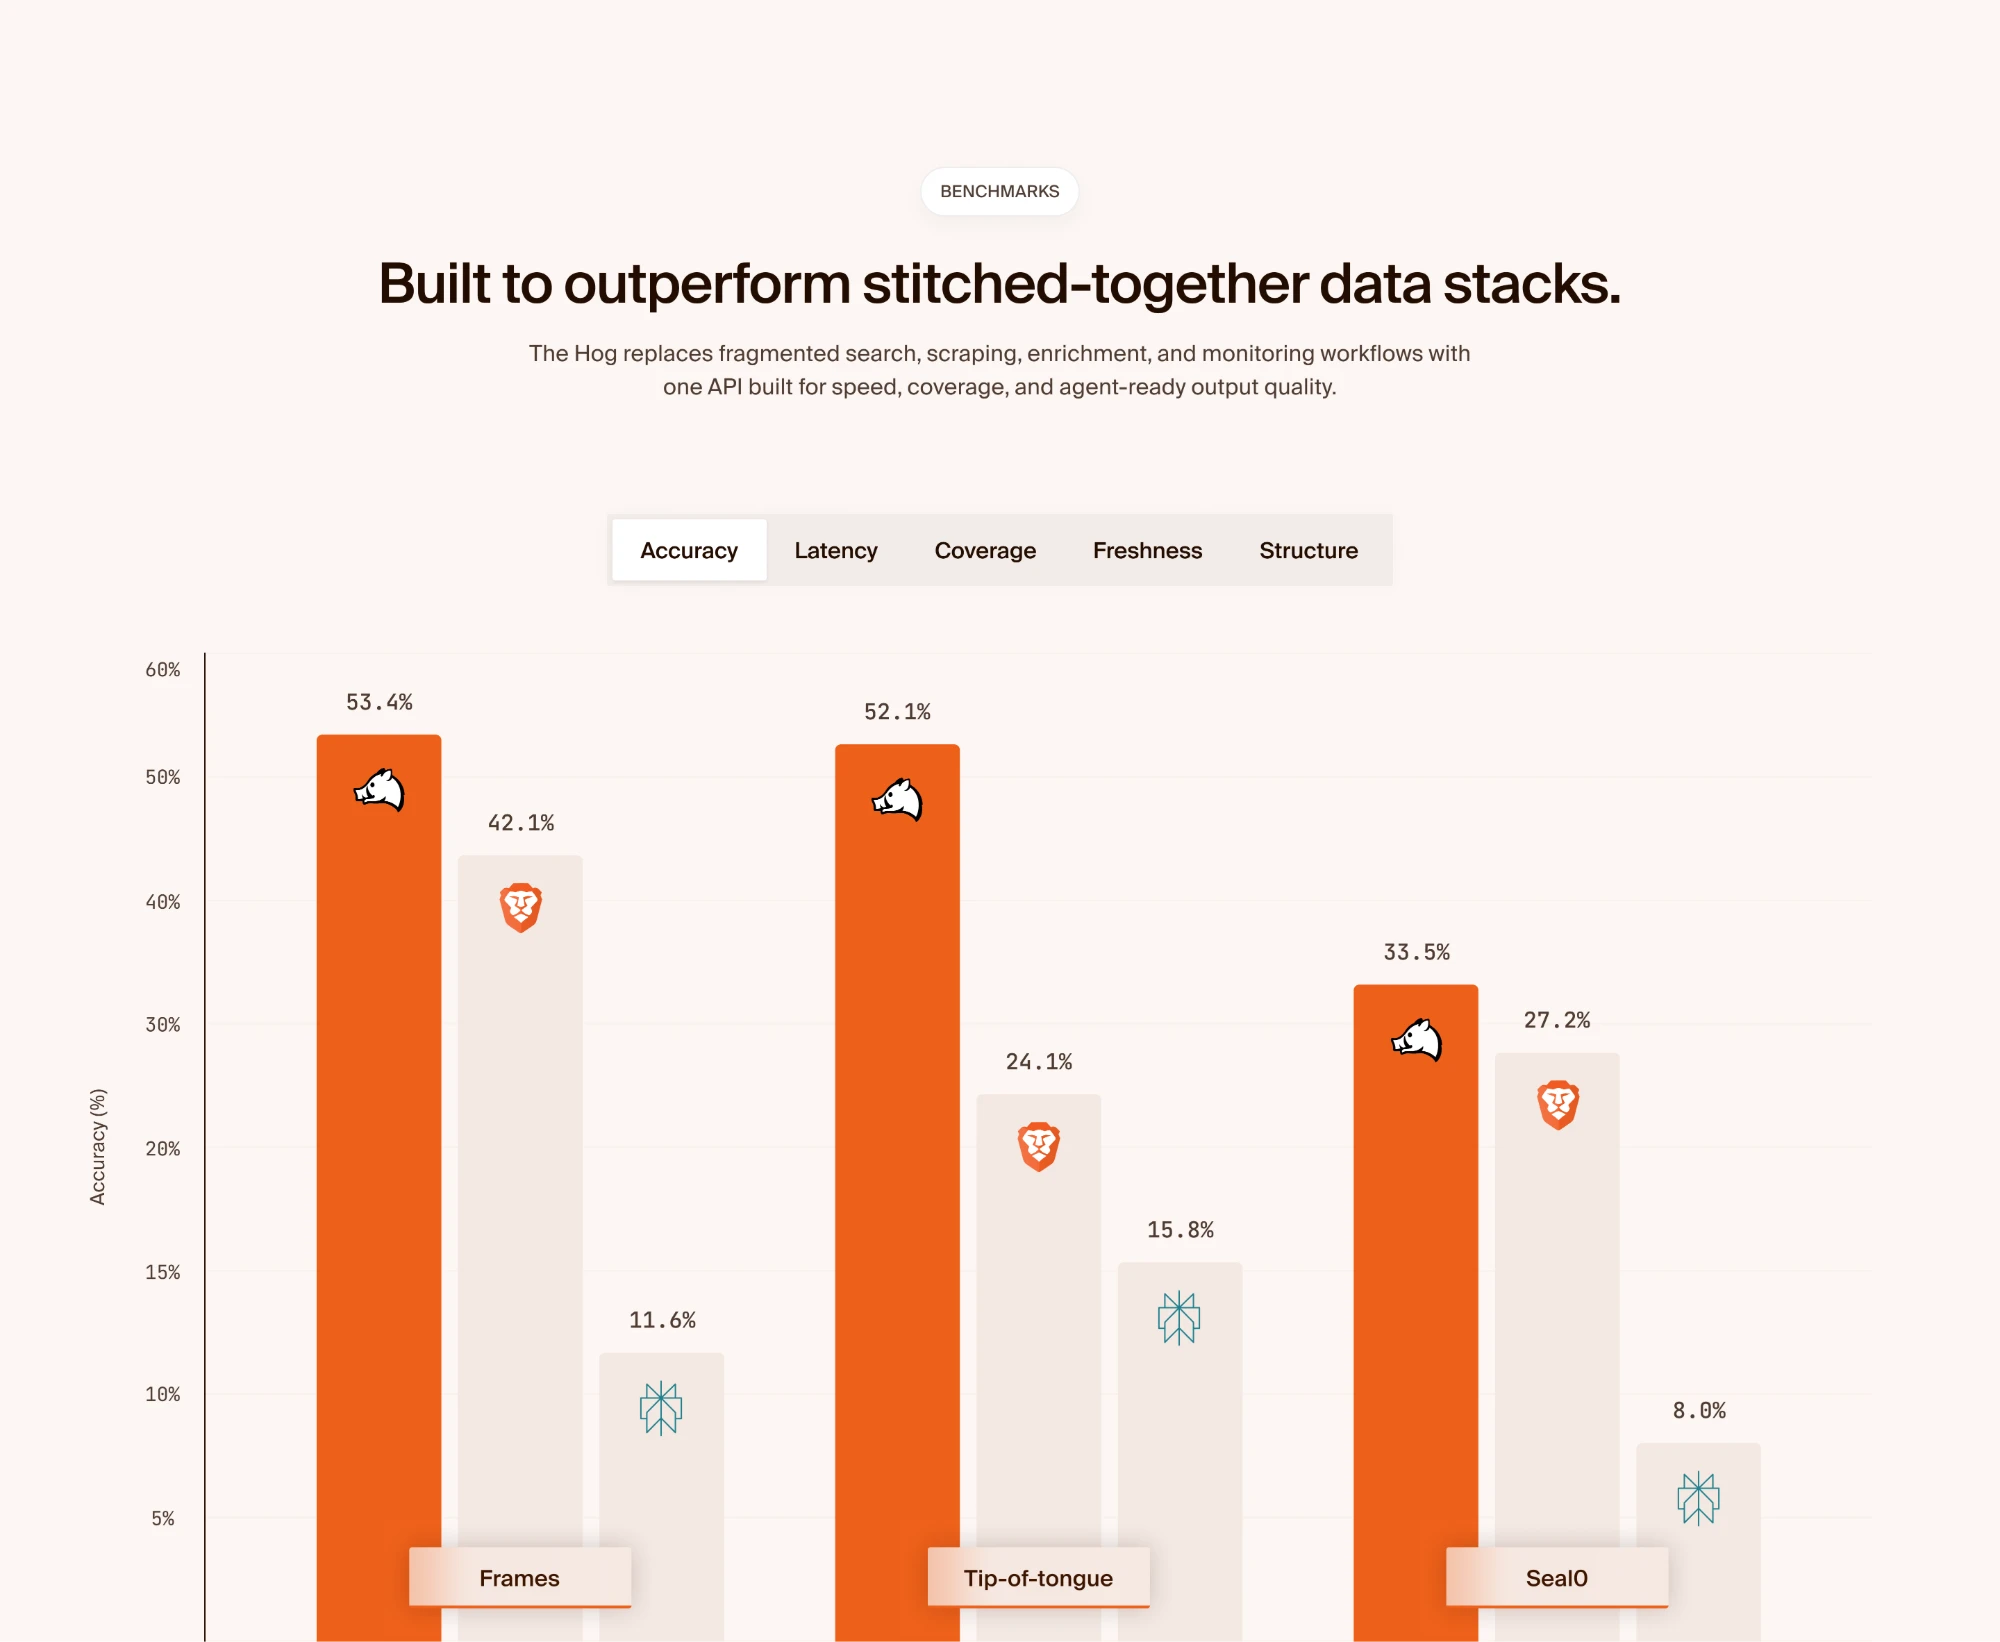
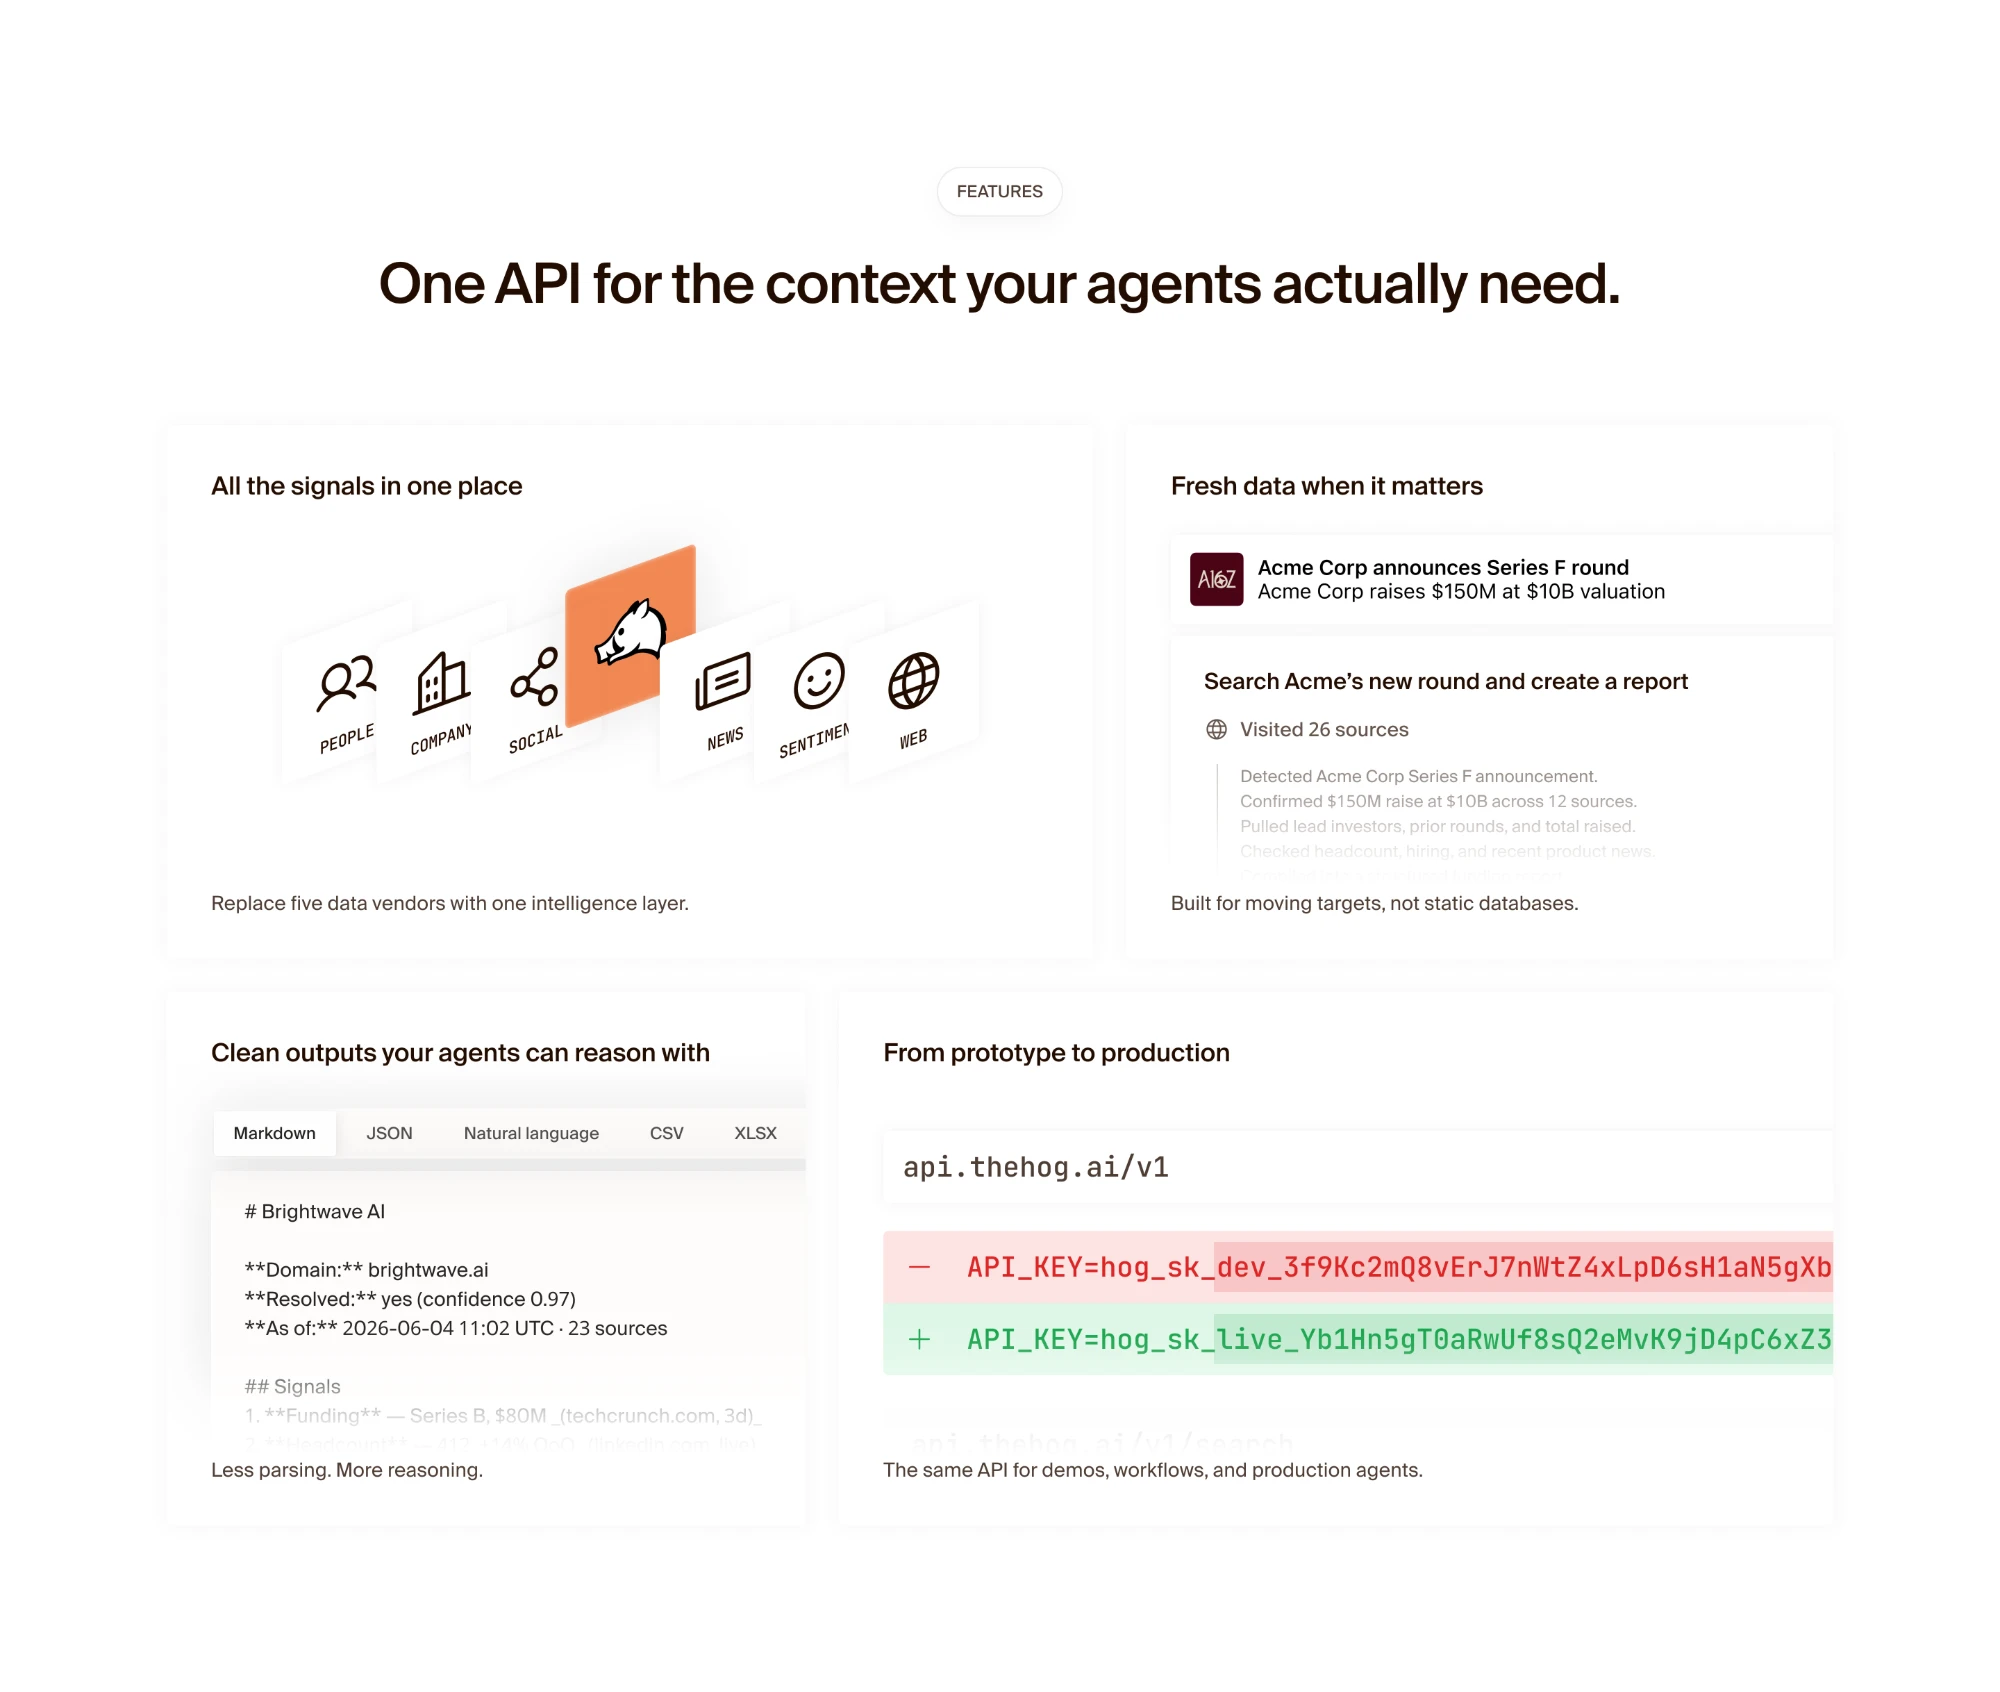
feat(works): update The Hog to hi-res webp set, reorder to hero/benchmarks/features
Upgrade The Hog hero from the 1440px png to a 2000px webp and reorder the
set to hero, benchmarks, features. All three are now webp; drop the png.

diff --git a/src/lib/projects.ts b/src/lib/projects.ts
@@ -57,7 +57,7 @@ export const PROJECTS: Project[] = [
     description: "The Complete Web Intelligence API",
     year: "2025",
     images: [
-      "/works/thehog-1.png",
+      "/works/thehog-1.webp",
       "/works/thehog-2.webp",
       "/works/thehog-3.webp",
     ],
